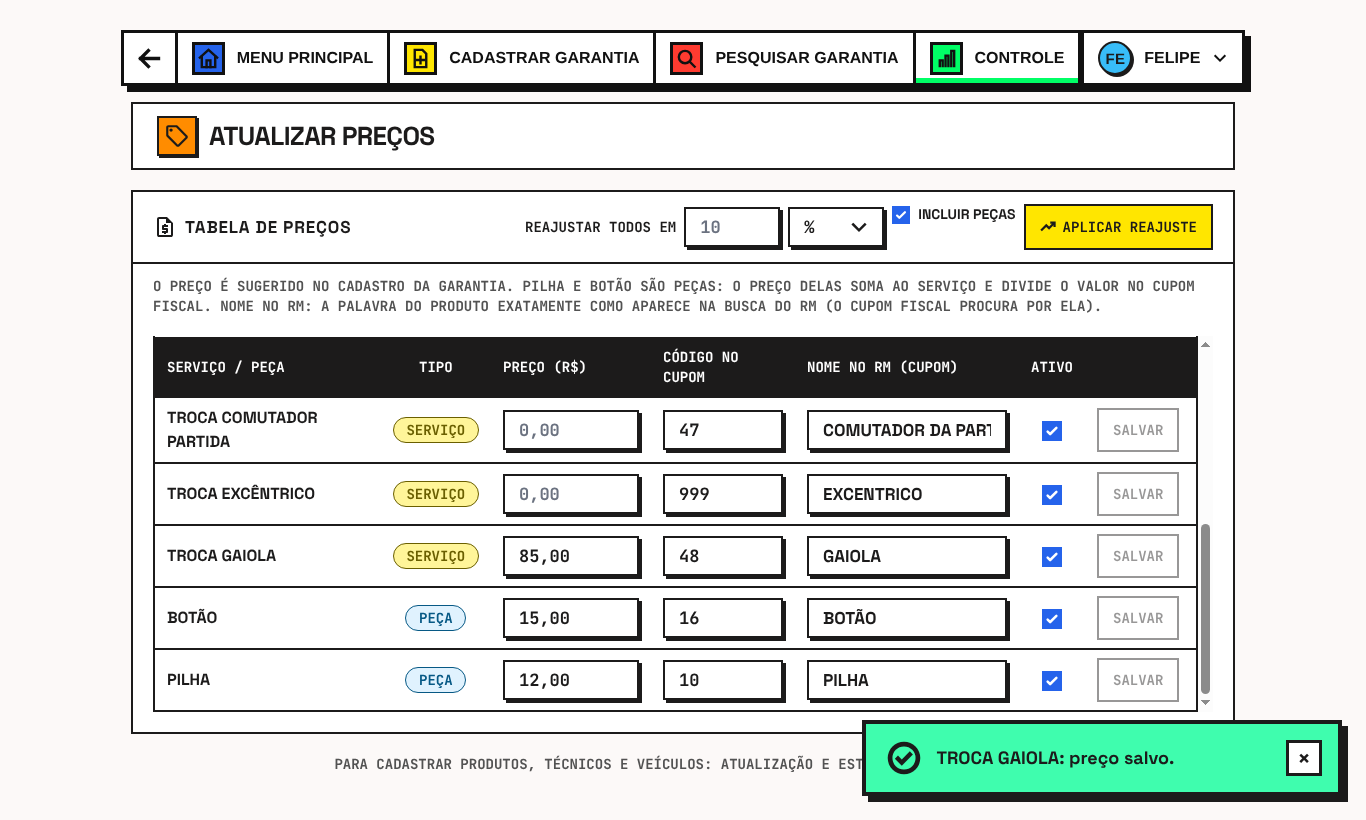
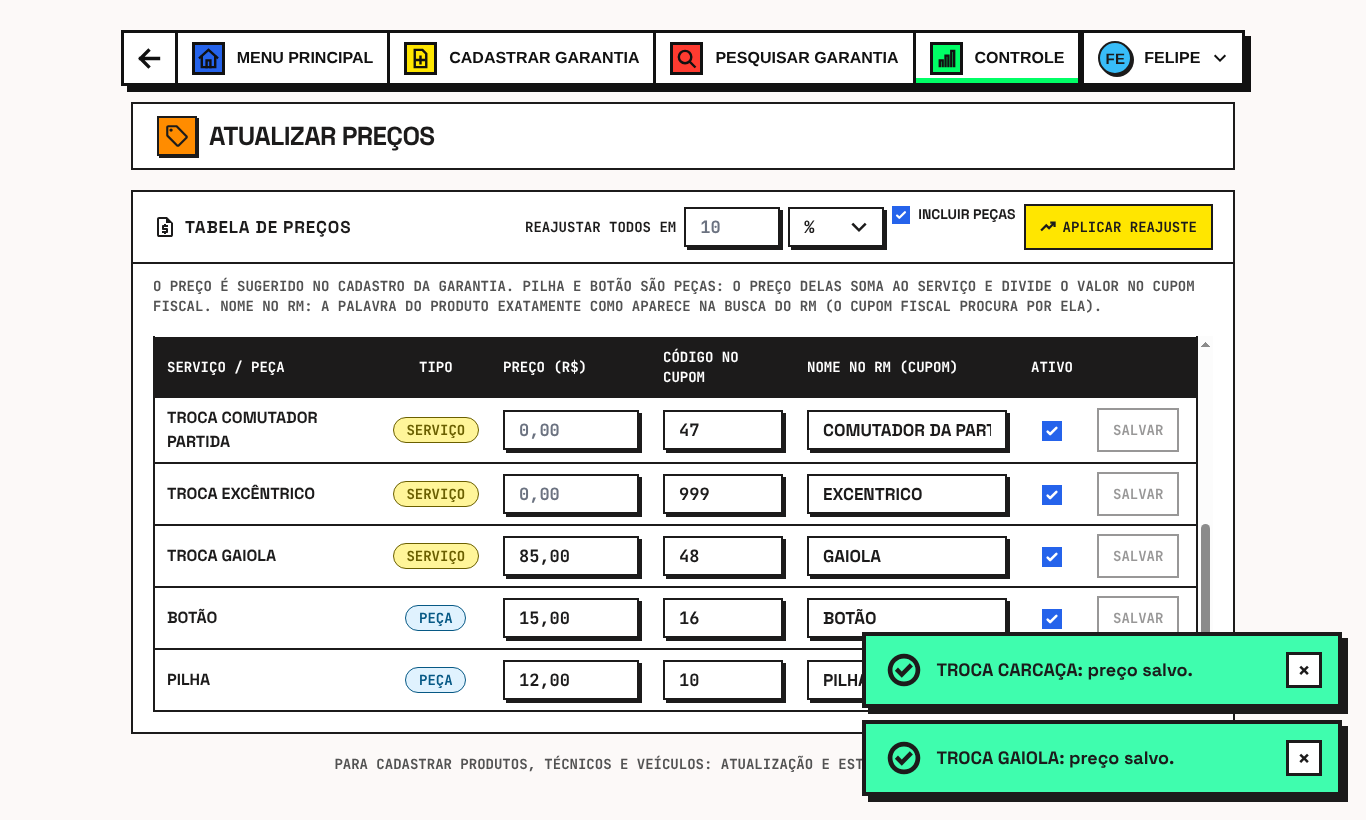
fix: atualizar precos - salvar uma linha nao apaga o que foi digitado nas outras
Claude-Session: https://claude.ai/code/session_01NUq2fGscdhbEodN3JA1uYc

Changed region(s): [[0.6149, 0.7622, 1.0, 0.8841]]

diff --git a/desktop/smoke.js b/desktop/smoke.js
@@ -422,6 +422,24 @@ async function executar() {
   teste("ATUALIZAR PREÇOS lista a tabela", await esperarPredicado("Number(document.body.dataset.precosCarregados) >= 11"));
   await esperar(300);
   teste("ATUALIZAR PREÇOS: altura de 5 linhas e rolagem por dentro", await js("(() => { const caixa = document.getElementById('corpoPrecos').closest('.tabela-rolagem'); return !!caixa && caixa.scrollHeight > caixa.clientHeight && !document.querySelector('[data-expandir-tabela]'); })()"));
+  // bug da loja (2026-11-19): digitar varias linhas e salvar uma apagava as outras
+  const linhaP = (nome) => `[...document.querySelectorAll('#corpoPrecos tr')].find(t => t.cells[0].textContent === '${nome}')`;
+  for (const [nome, v] of [["TROCA BOLACHA", "71,00"], ["TROCA CARCAÇA", "72,00"]]) {
+    await js(`(() => { const i = (${linhaP(nome)}).querySelector('input'); i.value = '${v}'; i.dispatchEvent(new Event('input')); })()`);
+  }
+  teste("Atualizar preços: digitar o preço liga o SALVAR de cada linha", await js(`[${linhaP("TROCA BOLACHA")}, ${linhaP("TROCA CARCAÇA")}].every(tr => !tr.querySelector('button').disabled)`));
+  await js(`(${linhaP("TROCA BOLACHA")}).querySelector('button').click()`);
+  await esperarPredicado(`(${linhaP("TROCA BOLACHA")}).querySelector('button').disabled`, 5000);
+  teste("Atualizar preços: salvar uma linha NÃO apaga o que foi digitado nas outras", await js(`(() => { const c = ${linhaP("TROCA CARCAÇA")};
+    return c.querySelector('input').value === '72,00' && !c.querySelector('button').disabled && (${linhaP("TROCA BOLACHA")}).querySelector('input').value === '71,00'; })()`),
+    await js(`(${linhaP("TROCA CARCAÇA")}).querySelector('input').value`));
+  await js(`(${linhaP("TROCA CARCAÇA")}).querySelector('button').click()`);
+  teste("Atualizar preços: depois salva a outra (as duas gravadas)", await esperarPredicado(`(async () => { const cfg = await window.finDesk.config();
+    const r = await fetch('http://127.0.0.1:' + cfg.port + '/api/servicos', { headers: { 'X-FinDesk-Token': cfg.token } }); const l = await r.json();
+    return l.find(x => x.nome === 'TROCA BOLACHA').preco === 71 && l.find(x => x.nome === 'TROCA CARCAÇA').preco === 72; })()`, 5000));
+  await js(`(() => { const i = (${linhaP("TROCA GAIOLA")}).querySelectorAll('input')[2]; i.value = 'gaiola'; i.dispatchEvent(new Event('input')); })()`);
+  teste("Atualizar preços: mudar só o NOME NO RM também liga o SALVAR", await js(`!(${linhaP("TROCA GAIOLA")}).querySelector('button').disabled`));
+  await js(`(() => { const i = (${linhaP("TROCA GAIOLA")}).querySelectorAll('input')[2]; i.value = 'GAIOLA'; })()`);
   await js(`(() => { const tr = [...document.querySelectorAll('#corpoPrecos tr')].find(t => t.textContent.includes('TROCA GAIOLA'));
     const i = tr.querySelector('input'); i.value = '85,00'; i.dispatchEvent(new Event('input')); i.id = 'preco-gaiola'; })()`);
   await enter("#preco-gaiola");

diff --git a/frontend/ts/telas/atualizar-precos.ts b/frontend/ts/telas/atualizar-precos.ts
@@ -97,6 +97,7 @@ function linhaServico(s: ServicoDados): HTMLTableRowElement {
   };
   preco.addEventListener("input", mudou);
   codigo.addEventListener("input", mudou);
+  nomeRm.addEventListener("input", mudou);
   ativo.addEventListener("change", mudou);
   salvar.addEventListener("click", () => {
     void (async () => {
@@ -106,9 +107,11 @@ function linhaServico(s: ServicoDados): HTMLTableRowElement {
         return;
       }
       try {
-        await salvarServico(await window.finDesk!.config(), { ...s, preco: p, codigoCupom: codigo.value.trim() || null, nomeRm: nomeRm.value.trim() || null, ativo: ativo.checked });
+        const salvo = await salvarServico(await window.finDesk!.config(), { ...s, preco: p, codigoCupom: codigo.value.trim() || null, nomeRm: nomeRm.value.trim() || null, ativo: ativo.checked });
         notificar(`${s.nome}: preço salvo.`);
-        await carregarPrecos();
+        // troca SO esta linha: as outras continuam com o que ja foi digitado e ainda nao salvo
+        // (antes a tabela inteira era recarregada e apagava os valores das outras linhas)
+        tr.replaceWith(linhaServico(salvo));
       } catch (erro) {
         notificar(primeiroErro(erro, "Não foi possível salvar. Tente de novo."), "erro");
       }
@@ -116,6 +119,11 @@ function linhaServico(s: ServicoDados): HTMLTableRowElement {
   });
   tr.append(nome, tipo, precoTd, codigoTd, nomeRmTd, ativoTd, acaoTd);
   return tr;
+}
+
+/** Linhas com algo digitado e ainda nao salvo (o SALVAR delas esta ligado). */
+function naoSalvas(): number {
+  return [...document.querySelectorAll<HTMLButtonElement>("#corpoPrecos button")].filter((b) => b.textContent === "SALVAR" && !b.disabled).length;
 }
 
 async function carregarPrecos(): Promise<void> {
@@ -140,7 +148,8 @@ async function reajustar(): Promise<void> {
     titulo: "REAJUSTAR PREÇOS?",
     mensagem: `Todos os preços ativos${pecas ? "" : " (menos as peças)"} vão ${percentual > 0 ? "subir" : "baixar"} `
       + `${emReais ? formatarMoedaBR(Math.round(Math.abs(percentual) * 100)) : `${Math.abs(percentual)}%`}`
-      + `${emReais && percentual < 0 ? " (nenhum fica abaixo de R$ 0,00)" : ""}. A mudança fica registrada na auditoria.`,
+      + `${emReais && percentual < 0 ? " (nenhum fica abaixo de R$ 0,00)" : ""}. A mudança fica registrada na auditoria.`
+      + (naoSalvas() ? ` ATENÇÃO: ${naoSalvas()} linha(s) com valores digitados e ainda NÃO salvos serão descartadas.` : ""),
     textoConfirmar: "REAJUSTAR",
     tom: "atencao",
   });

diff --git a/docs/decisoes.md b/docs/decisoes.md
@@ -131,3 +131,6 @@ Registro das decisões de negócio e de arquitetura do Sistema de Garantias. Mai
 - Na loja o programa não reabria após atualizar. Causas possíveis: (1) o jeito padrão do NSIS abre pelo atalho do Menu Iniciar via Explorer (`ExecShellAsUser`), que pode falhar calado; (2) o programa novo abria enquanto o antigo ainda fechava e, sem a "instância única", fechava sozinho.
 - Agora: `instalador.nsh` (customInstall, só em atualização) abre o exe DIRETO com `--reabrir-depois-da-atualizacao`; com essa marca o programa tenta a instância única a cada 0,5 s por até 40 s em vez de desistir (`desktop/main.js`). Se o atalho também abrir, um dos dois fica e o outro sai quieto.
 - Ensaio do GitHub: além do processo, exige a JANELA aberta e ainda aberta 15 s depois.
+
+## 2026-11-19 — Atualizar preços: salvar uma linha não apaga as outras
+- Antes o SALVAR de uma linha recarregava a tabela inteira e apagava o que estava digitado (e não salvo) nas outras. Agora troca só a linha salva (com o que o servidor devolveu). Mudar só o NOME NO RM também liga o SALVAR. O REAJUSTE geral avisa quantas linhas digitadas e não salvas vai descartar.
